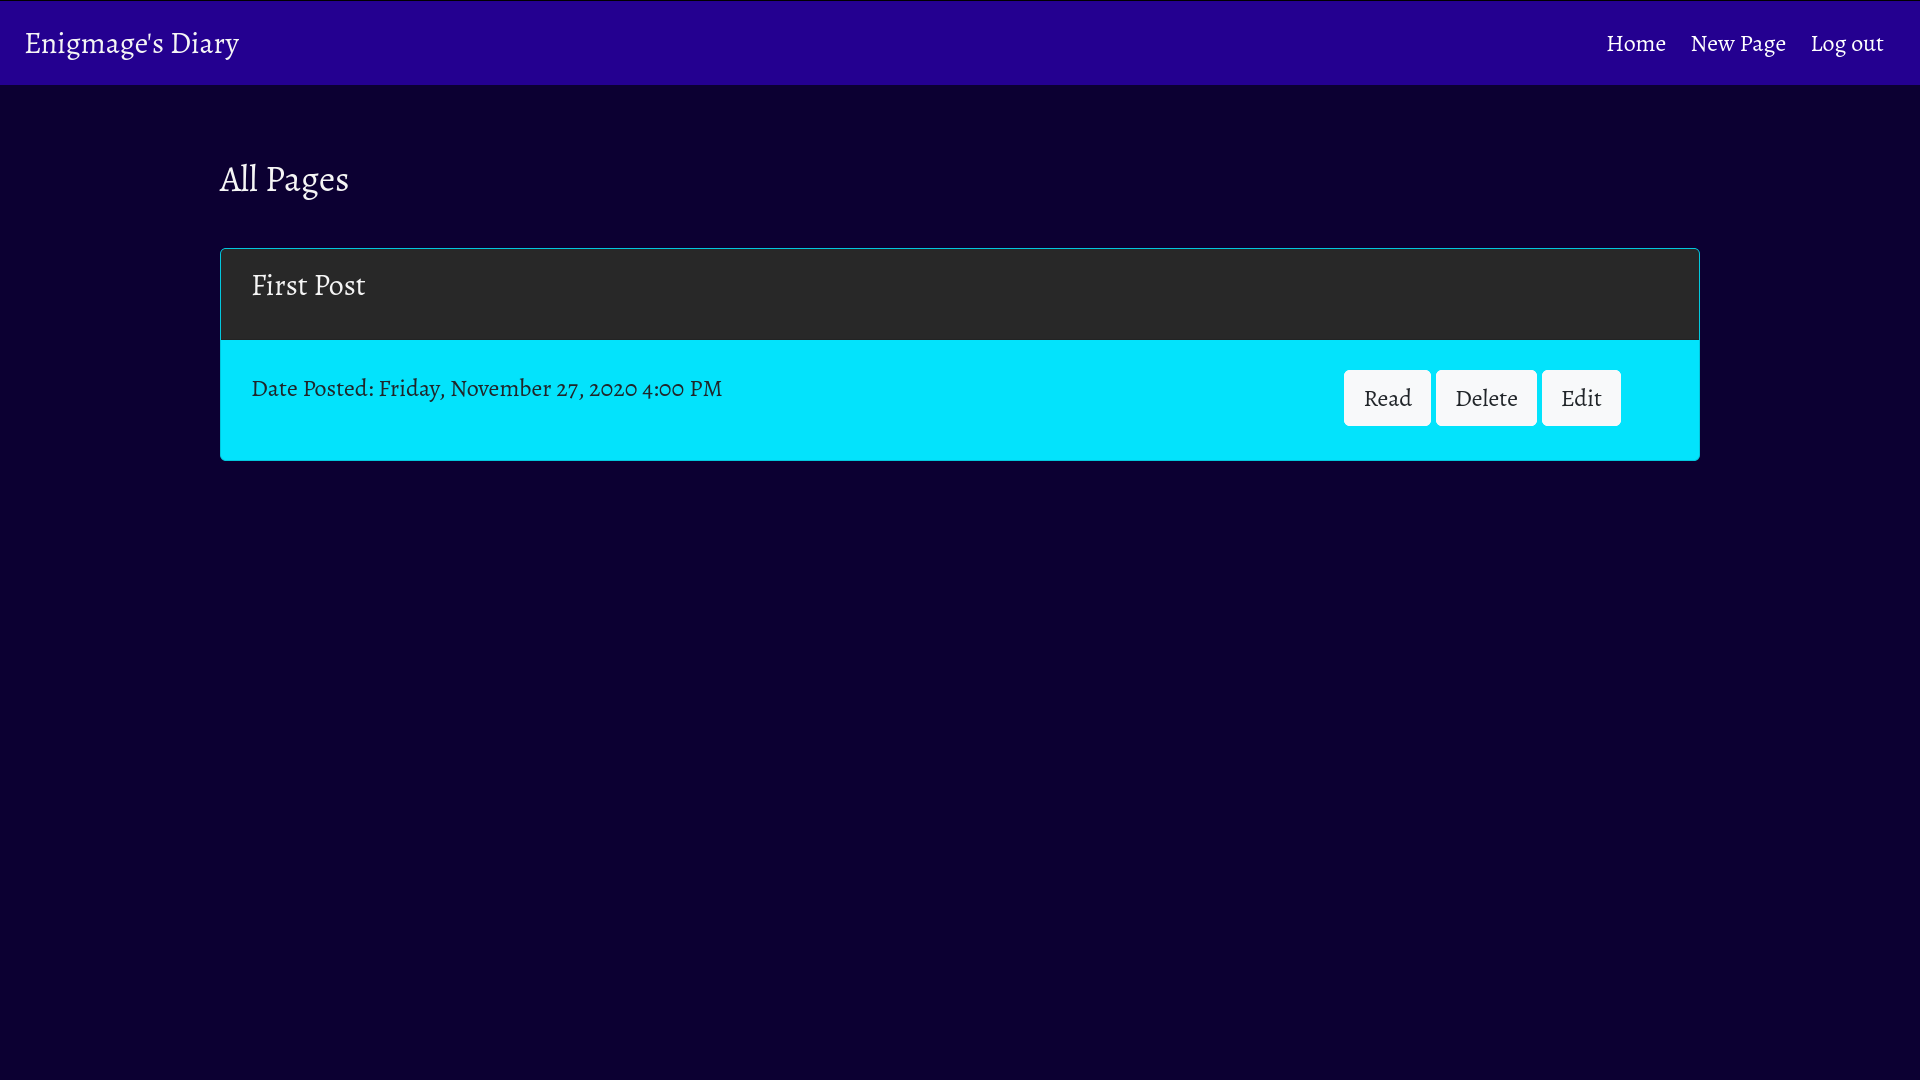
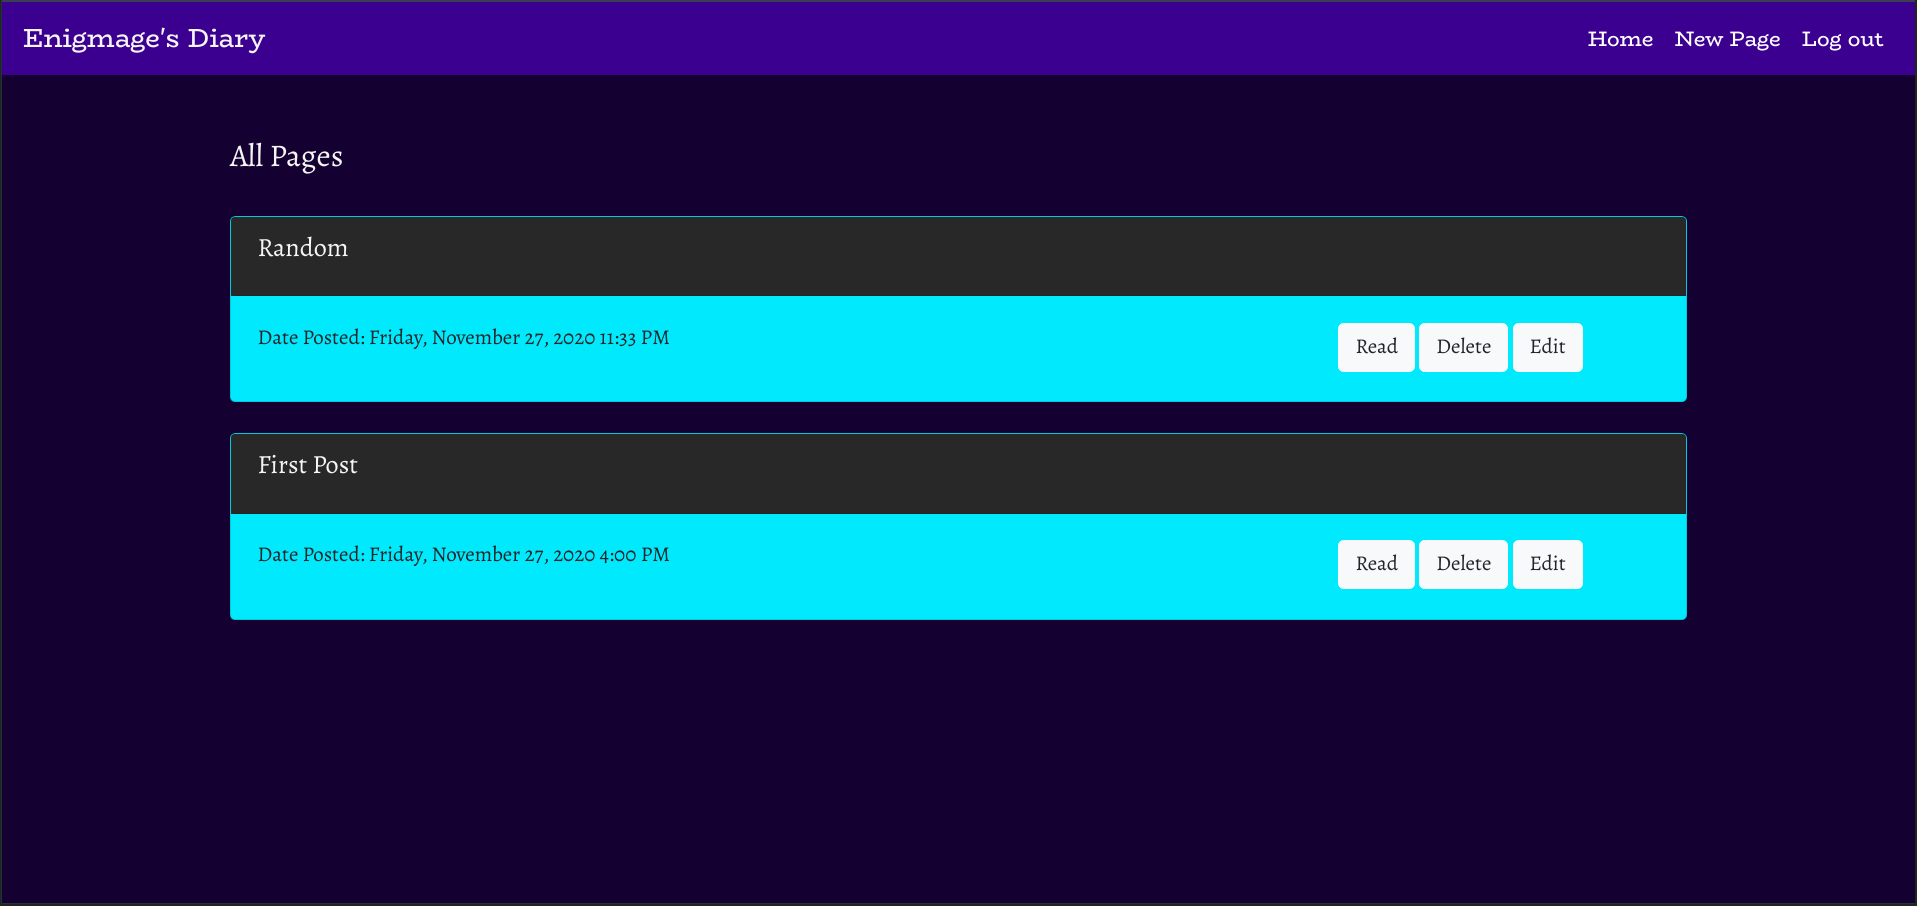
new font

diff --git a/app/templates/base.html b/app/templates/base.html
@@ -7,7 +7,7 @@
 
         <!--Bootstrap-->
         <link rel="stylesheet" href="https://stackpath.bootstrapcdn.com/bootstrap/4.5.0/css/bootstrap.min.css" integrity="sha384-9aIt2nRpC12Uk9gS9baDl411NQApFmC26EwAOH8WgZl5MYYxFfc+NcPb1dKGj7Sk" crossorigin="anonymous">
-        <link href='https://fonts.googleapis.com/css?family=Almendra|Cormorant SC|Alegreya' rel='stylesheet'>
+        <link href='https://fonts.googleapis.com/css?family=Almendra|Cormorant SC|Alegreya|BioRhyme' rel='stylesheet'>
 
         <style>
             body {
@@ -17,6 +17,7 @@
             .navbar {
                 background: #240090;
                 color: whitesmoke;
+                font-family: BioRhyme;
             }
             .nav-link {
                 color: white;
